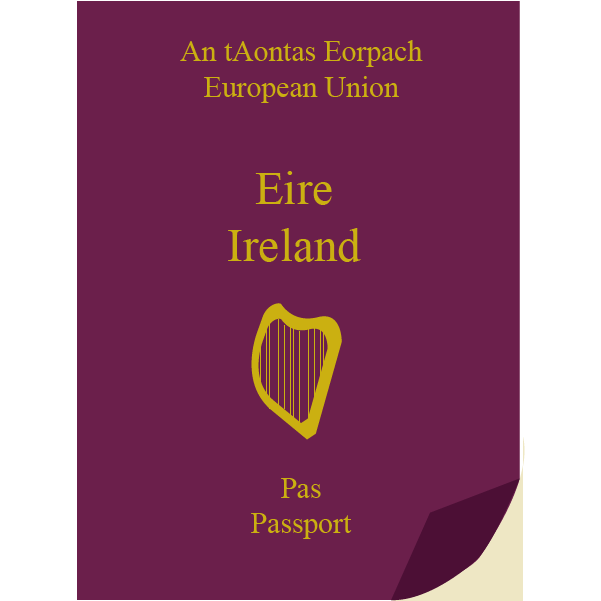
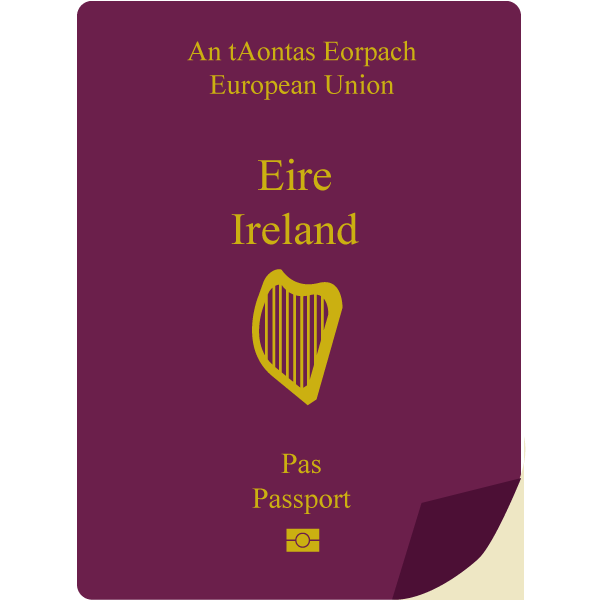
Incorporation of new Graphics and return cameraLiveView
Graphics created have been applied to main android project, not the processing project though. Also the ability to return to the cameraLiveviewScreen has been implmented

diff --git a/Android_Studio/WishIWasHere/app/src/main/java/processing/test/wish_i_was_here/ShareSaveSuccessfulScreen.java b/Android_Studio/WishIWasHere/app/src/main/java/processing/test/wish_i_was_here/ShareSaveSuccessfulScreen.java
@@ -18,10 +18,14 @@ public class ShareSaveSuccessfulScreen extends Screen {
 
         sketch = _sketch;
 
-        Icon shareImageToDeviceAppsIcon = new Icon(sketch, sketch.iconCenterX, sketch.iconCenterY * 1.6, sketch.largeIconSize, sketch.largeIconSize, sketch.shareImageToDeviceAppsImage, "Share", true, "Below", "_shareImageToDeviceApps");
+        Icon shareImageToDeviceAppsIcon = new Icon(sketch, sketch.iconCenterX * 1.45, sketch.iconCenterY * 1.5, sketch.largeIconSize, sketch.largeIconSize, sketch.shareImageToDeviceAppsImage, "\r\n\n" + "Share to other" + "\r\n" + " applications", true, "Below", "_shareImageToDeviceApps");
+
+        Icon returnCameraLiveViewIcon = new Icon(sketch, sketch.iconCenterX * 0.55, sketch.iconCenterY * 1.5, sketch.largeIconSize, sketch.largeIconSize, sketch.returnCameraLiveViewIcon, "\r\n\n" + "Return to" +"\r\n" + " camera view", true, "Below", "CameraLiveViewScreen");
+
+        //Icon shareImageToDeviceAppsIcon = new Icon( sketch, sketch.appWidth * 0.7, sketch.iconCenterY * 1.45, sketch.largeIconSize, sketch.largeIconSize, sketch.shareImageToDeviceAppsImage, "Share", true, "Below", "_shareImageToDeviceApps");
 
         // Creating a temporary allIcons array to store the icon/s we have created above.
-        Icon[] allIcons = {shareImageToDeviceAppsIcon};
+        Icon[] allIcons = {shareImageToDeviceAppsIcon,returnCameraLiveViewIcon };
 
         this.setScreenIcons(allIcons);
 

diff --git a/Android_Studio/WishIWasHere/app/src/main/java/processing/test/wish_i_was_here/Sketch.java b/Android_Studio/WishIWasHere/app/src/main/java/processing/test/wish_i_was_here/Sketch.java
@@ -151,6 +151,7 @@ public class Sketch extends PApplet {
     PImage sharingScreenImage;
     PImage searchingImage;
     PImage shareImageToDeviceAppsImage;
+    PImage returnCameraLiveViewIcon;
 
 
     Boolean mouseClicked = false;
@@ -332,7 +333,8 @@ public class Sketch extends PApplet {
         overlayImage = loadImage("overlay.png");
         sharingScreenImage = loadImage("sharingScreenImage.png");
         searchingImage = loadImage("searchingImage.png");
-        shareImageToDeviceAppsImage = loadImage("instagramAccountIconImage.png");
+        shareImageToDeviceAppsImage = loadImage("shareIconImage.png");
+        returnCameraLiveViewIcon = loadImage("returnCameraLiveViewIcon.png");
 
     /*-------------------------------------- Sizing ------------------------------------------------*/
 

diff --git a/Android_Studio/WishIWasHere/app/src/main/java/processing/test/wish_i_was_here/SaveShareScreenB.java b/Android_Studio/WishIWasHere/app/src/main/java/processing/test/wish_i_was_here/SaveShareScreenB.java
@@ -59,3 +59,4 @@ public class SaveShareScreenB extends Screen {
         messageInput.showTextInput();
     }
 }
+
